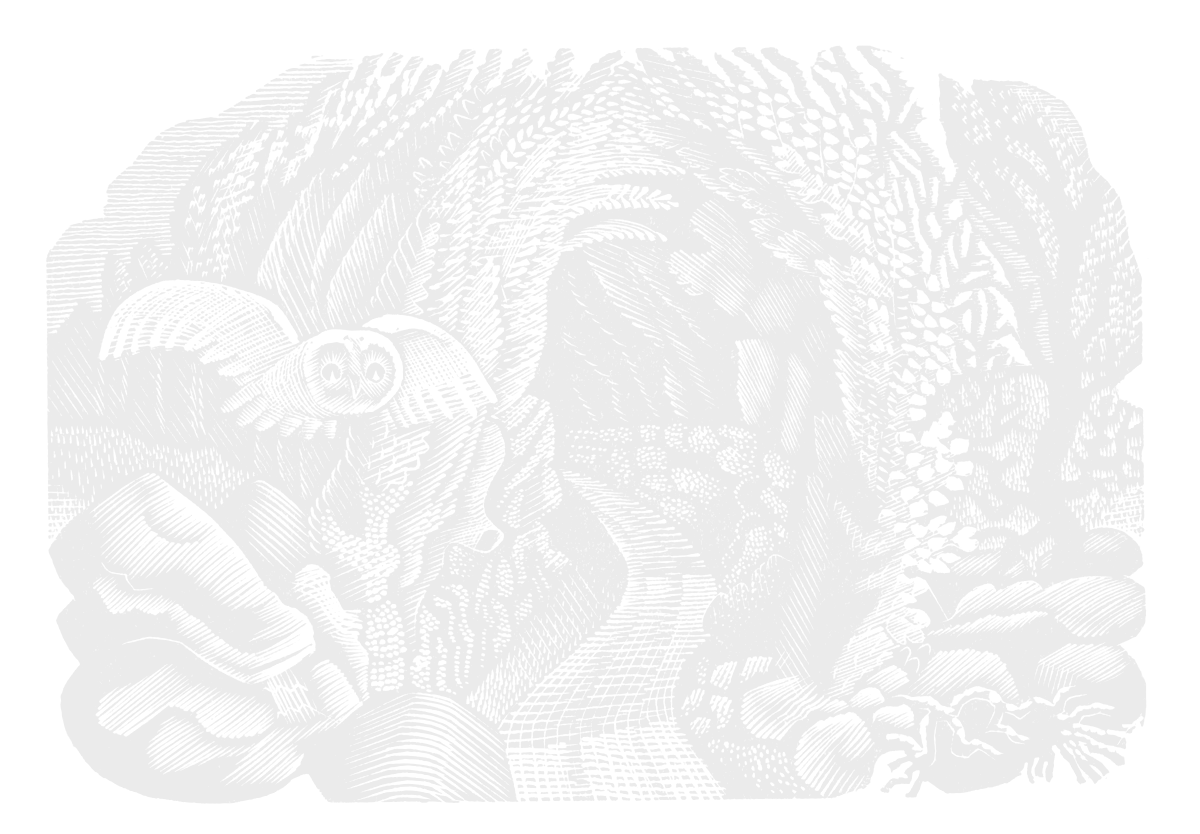
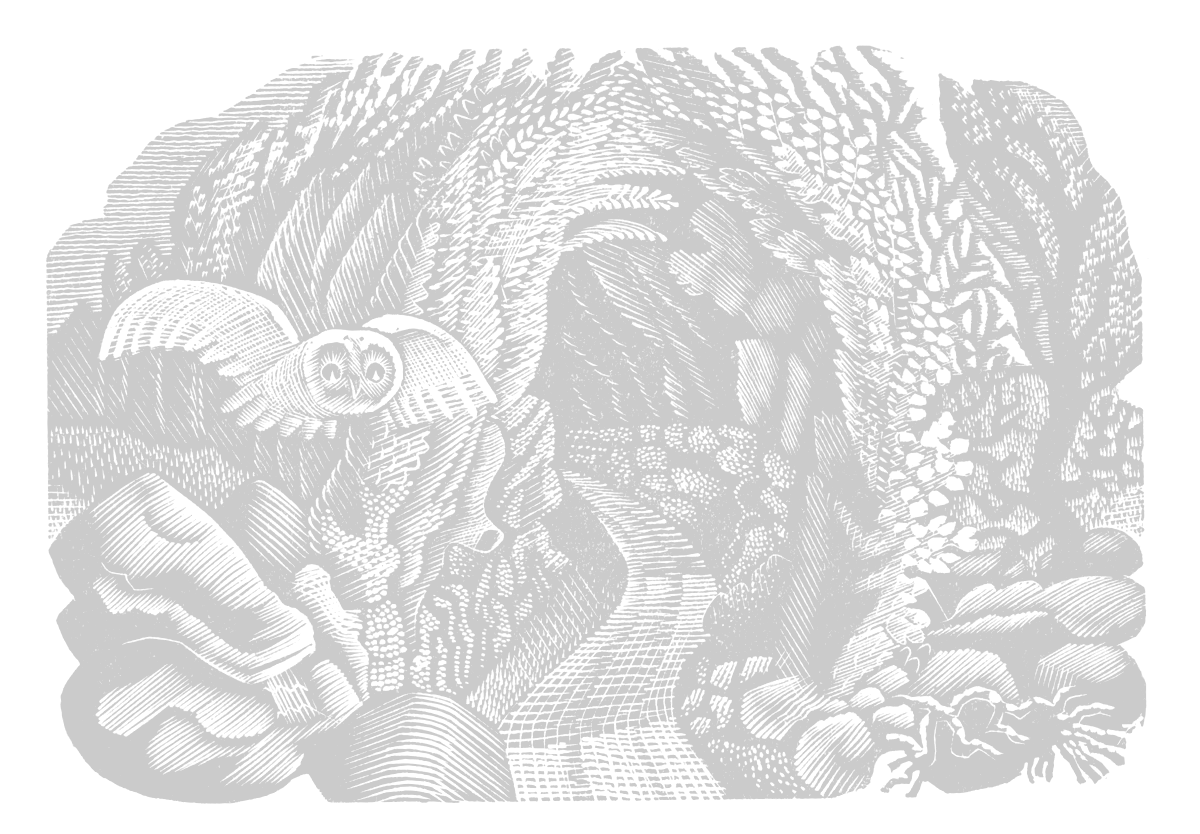
sitp: add tikz for venn diagram

diff --git a/sitp/theme/css/custom.css b/sitp/theme/css/custom.css
@@ -325,17 +325,27 @@ html.ayu img.owl {
   content: url("../../assets/owl3.png");
 }
 
-
 html.navy img.owl-forest,
 html.ayu img.owl-forest,
 html.coal img.owl-forest {
   content: url("../../assets/owl_forest2.png");
 }
 
-
 /* Theme-dependent probability-space diagram, mirroring the owl swap above. */
 html.coal img.probspace,
 html.navy img.probspace,
 html.ayu img.probspace {
   content: url("../../assets/probspace_dark.png");
+}
+
+html.coal img.venn,
+html.navy img.venn,
+html.ayu img.venn {
+  content: url("../../assets/venn_dark.png");
+}
+
+html.coal img.venn_disjoint,
+html.navy img.venn_disjoint,
+html.ayu img.venn_disjoint {
+  content: url("../../assets/venn_disjoint_dark.png");
 }

diff --git a/sitp/src/1.md b/sitp/src/1.md
@@ -1188,7 +1188,7 @@ In the previous subchapter, we mentioned that the statistical disciplines of mac
 model language (thus the term language model) as a *weighted set of strings* with stochastic uncertainty.
 This is done with probability theory, which models <span class="defnote">**uncertainty**</span>**uncertainty** in an <span class="defnote">**experiment**</span>**experiment** generically with two sets and a function.
 
-<img class="probspace" src="./assets/probspace.png" alt="">
+<img class="probspace" src="./assets/probspace.png" alt="" style="display: block; margin: 0 auto;">
 
 The first set is the set of all possible <span class="defnote">**outcomes $\omega$**</span>**outcomes** of the experiment called the <span class="defnote">**sample space $\Omega$**</span>**sample space**, denoted by $\Omega$ and $\omega$ respectively.
 For instance, modeling the "experiment" or phenomena of language with probability theory, the formal language theoretic vocabulary is now seen as the sample space:
@@ -1198,7 +1198,7 @@ $$
 $$
 
 The second set is the set of all possible subsets of the sample space $\Omega$.
-This is the set of all possible **events** of the experiment called the <span class="defnote">**event space $\mathcal{F}$**</span>**event space**, denoted by $\mathcal{F}$ and $E$ respectively.
+This is the set of all possible **events** of the experiment called the <span class="defnote">**event space $\mathcal{F}$**</span>**event space**, denoted by $\mathcal{F}$ and $A$ respectively.
 That is, $A \subseteq \Omega$.
 For instance, the events of "all words that start with the letter 'a'" and "all words that start with the letter 'b'" are respectively seen as
 
@@ -1230,12 +1230,18 @@ $$
 
 Together, this triplet of the sample space, event space  and probability law comprise
 a <span class="defnote">**probability space $(\Omega, \mathcal{F}, \mathbb{P})$**</span>**probability space** $(\Omega, \mathcal{F}, \mathbb{P})$,
-given that it follows three axioms:
+and must satisfy three axioms:
 <ol type="I">
 <li><em>non-negativity</em>: $0 \leq \mathbb{P({E})} \leq 1$</li>
 <li><em>normalization</em>: $\mathbb{P(\Omega)}=1$</li>
 <li><em>additivity</em>:</li>
 </ol>
+
+<div style="display: flex; justify-content: space-between; align-items: center; gap: 1em; flex-wrap: wrap;">
+<img class="venn_disjoint" src="./assets/venn_disjoint.png" alt="" style="max-width: 45%; height: auto;">
+<img class="venn" src="./assets/venn.png" alt="" style="max-width: 45%; height: auto;">
+</div>
+
 
 product rule
 sum rule